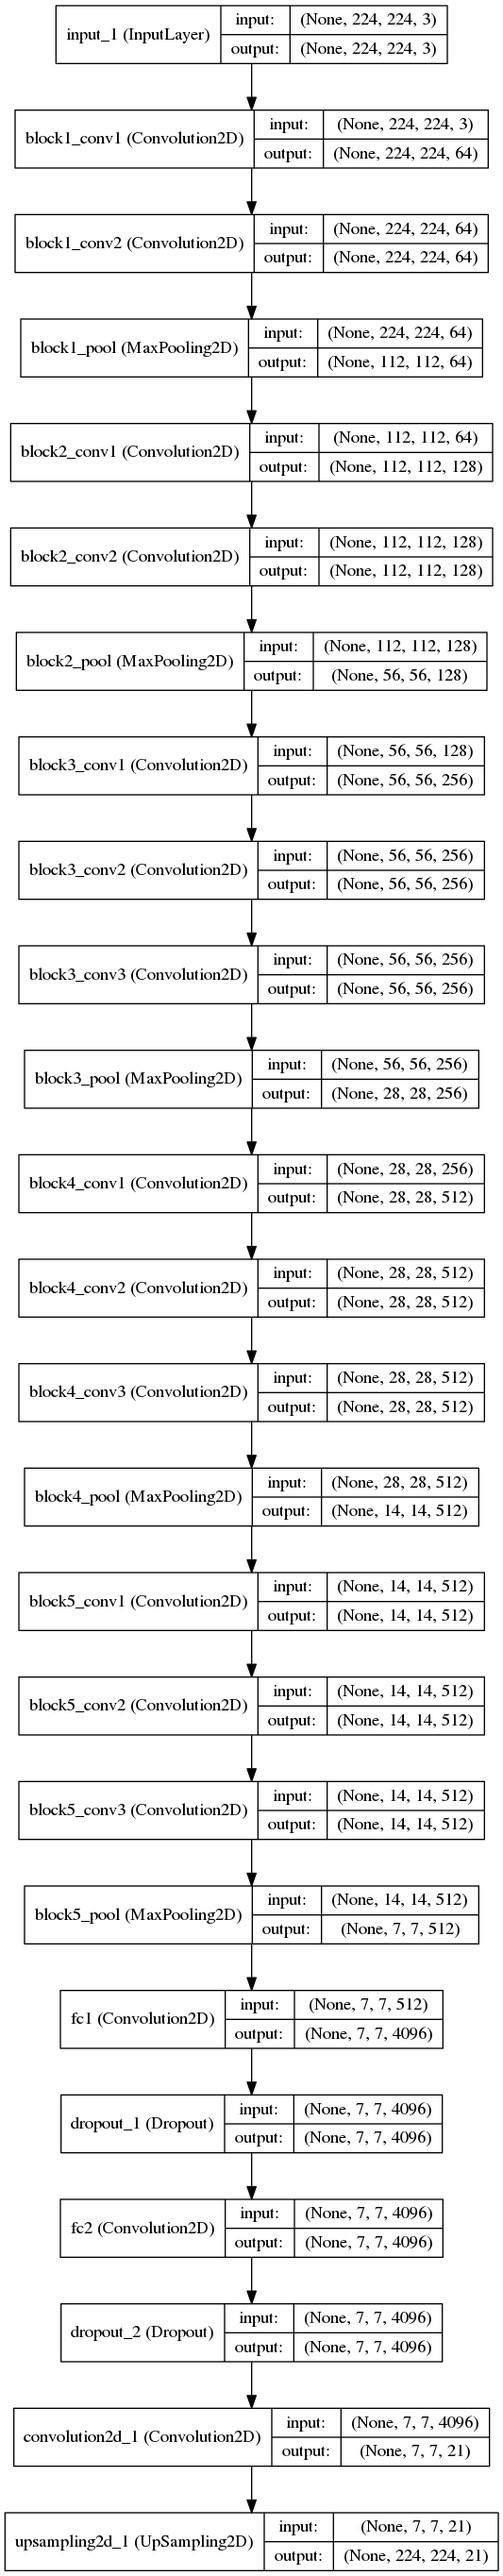
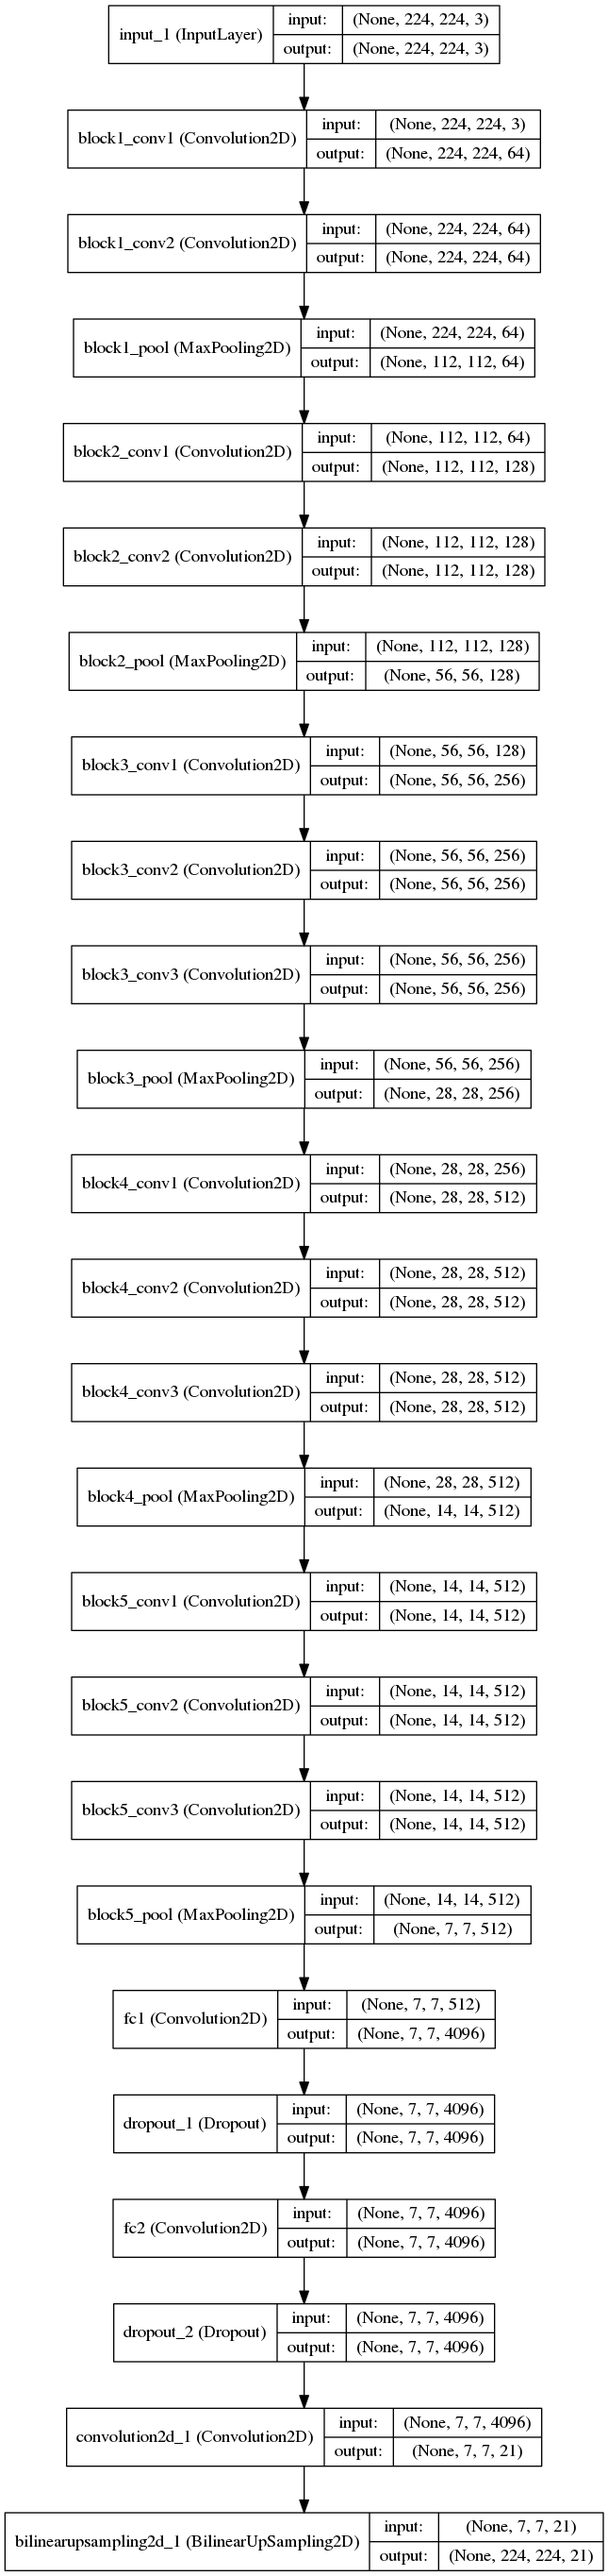
Defined new layer BilinearUpSampling2D and use it to upsample the output.

diff --git a/models.py b/models.py
@@ -6,11 +6,76 @@ import sys
 from keras.models import Model
 from keras.regularizers import l2
 from keras.layers import *
-from keras.models import model_from_json
-from keras.utils import np_utils
+from keras.engine import Layer
 from keras.applications.vgg16 import *
+from keras.models import *
+import keras.backend as K
+import tensorflow as tf
 
 from utils.get_weights_path import *
+
+def resize_images_bilinear(X, height_factor, width_factor, dim_ordering):
+    '''Resizes the images contained in a 4D tensor of shape
+    - [batch, channels, height, width] (for 'th' dim_ordering)
+    - [batch, height, width, channels] (for 'tf' dim_ordering)
+    by a factor of (height_factor, width_factor). Both factors should be
+    positive integers.
+    '''
+    if dim_ordering == 'th':
+        original_shape = K.int_shape(X)
+        new_shape = tf.shape(X)[2:]
+        new_shape *= tf.constant(np.array([height_factor, width_factor]).astype('int32'))
+        X = permute_dimensions(X, [0, 2, 3, 1])
+        X = tf.image.resize_bilinear(X, new_shape)
+        X = permute_dimensions(X, [0, 3, 1, 2])
+        X.set_shape((None, None, original_shape[2] * height_factor, original_shape[3] * width_factor))
+        return X
+    elif dim_ordering == 'tf':
+        original_shape = K.int_shape(X)
+        new_shape = tf.shape(X)[1:3]
+        new_shape *= tf.constant(np.array([height_factor, width_factor]).astype('int32'))
+        X = tf.image.resize_bilinear(X, new_shape)
+        X.set_shape((None, original_shape[1] * height_factor, original_shape[2] * width_factor, None))
+        return X
+    else:
+        raise Exception('Invalid dim_ordering: ' + dim_ordering)
+
+class BilinearUpSampling2D(Layer):
+    def __init__(self, size=(2, 2), dim_ordering='default', **kwargs):
+        if dim_ordering == 'default':
+            dim_ordering = K.image_dim_ordering()
+        self.size = tuple(size)
+        assert dim_ordering in {'tf', 'th'}, 'dim_ordering must be in {tf, th}'
+        self.dim_ordering = dim_ordering
+        self.input_spec = [InputSpec(ndim=4)]
+        super(BilinearUpSampling2D, self).__init__(**kwargs)
+
+    def get_output_shape_for(self, input_shape):
+        if self.dim_ordering == 'th':
+            width = self.size[0] * input_shape[2] if input_shape[2] is not None else None
+            height = self.size[1] * input_shape[3] if input_shape[3] is not None else None
+            return (input_shape[0],
+                    input_shape[1],
+                    width,
+                    height)
+        elif self.dim_ordering == 'tf':
+            width = self.size[0] * input_shape[1] if input_shape[1] is not None else None
+            height = self.size[1] * input_shape[2] if input_shape[2] is not None else None
+            return (input_shape[0],
+                    width,
+                    height,
+                    input_shape[3])
+        else:
+            raise Exception('Invalid dim_ordering: ' + self.dim_ordering)
+
+    def call(self, x, mask=None):
+        return resize_images_bilinear(x, self.size[0], self.size[1],
+                               self.dim_ordering)
+
+    def get_config(self):
+        config = {'size': self.size}
+        base_config = super(BilinearUpSampling2D, self).get_config()
+        return dict(list(base_config.items()) + list(config.items()))
 
 def FCN_Vgg16_32s(input_shape = None, weight_decay=0.):
     img_input = Input(shape=input_shape)
@@ -50,7 +115,7 @@ def FCN_Vgg16_32s(input_shape = None, weight_decay=0.):
     #classifying layer
     x = Convolution2D(21, 1, 1, init='normal', activation='linear', border_mode='valid', subsample=(1, 1), W_regularizer=l2(weight_decay))(x)
 
-    x = UpSampling2D(size=(32, 32))(x)
+    x = BilinearUpSampling2D(size=(32, 32))(x)
 
     model = Model(img_input, x)
 
@@ -166,7 +231,7 @@ def FCN_Resnet50_32s(input_shape = None, weight_decay=0.):
     #classifying layer
     x = Convolution2D(21, 1, 1, init='normal', activation='linear', border_mode='valid', subsample=(1, 1), W_regularizer=l2(weight_decay))(x)
 
-    x = UpSampling2D(size=(32, 32))(x)
+    x = BilinearUpSampling2D(size=(32, 32))(x)
 
     model = Model(img_input, x)
     weights_path = os.path.expanduser(os.path.join('~', '.keras/models/fcn_resnet50_weights_tf_dim_ordering_tf_kernels.h5'))

diff --git a/inference.py b/inference.py
@@ -11,10 +11,10 @@ from keras.models import load_model
 from models import *
 
 if __name__ == '__main__':
-    image = cv2.imread('/home/aurora/Learning/Data/VOC2012/JPEGImages/2007_000033.jpg')
-    label = Image.open('/home/aurora/Learning/Data/VOC2012/SegmentationClass/2007_000033.png')
-    print label
-    exit()
+    img_num = '2007_000042'
+    image = cv2.imread('/home/aurora/Learning/Data/VOC2012/JPEGImages/%s.jpg'%img_num)
+    label = Image.open('/home/aurora/Learning/Data/VOC2012/SegmentationClass/%s.png'%img_num)
+
     #label.show(title='ground truth')
     #label = img_to_array(label)
     image = cv2.resize(image, (224, 224),interpolation=cv2.INTER_AREA)
@@ -28,7 +28,7 @@ if __name__ == '__main__':
     f = open(model_path, 'r')
     model_json = f.read()
     f.close
-    model = model_from_json(model_json)
+    model = model_from_json(model_json, {'BilinearUpSampling2D': BilinearUpSampling2D})
     checkpoint_path = os.path.join(save_path, 'checkpoint_weights.hdf5')
     model.load_weights(checkpoint_path)
     model.summary()
@@ -36,8 +36,8 @@ if __name__ == '__main__':
     result = model.predict(image,batch_size=1)
     result = np.argmax(np.squeeze(result), axis=-1).astype(np.uint8)
 
-    temp = label.copy()
-    temp.putdata(result)
-    #temp.show(title='result')
+    temp = Image.fromarray(result, mode='P')
+    temp.palette = label.palette
+    temp.show(title='result')
     print result
     print np.max(result)

diff --git a/train.py b/train.py
@@ -47,7 +47,7 @@ def train(batch_size, nb_epoch, lr_dict, weight_decay, nb_classes, model_name, t
         f = open(model_path, 'r')
         model_json = f.read()
         f.close
-        model = model_from_json(model_json)
+        model = model_from_json(model_json, {'BilinearUpSampling2D': BilinearUpSampling2D})
         sgd = SGD(lr=0.001, momentum=0.9)
         model.compile(loss = softmax_sparse_crossentropy_ignoring_last_label, optimizer=sgd, metrics=['accuracy'])
         model.load_weights(checkpoint_path)
@@ -104,8 +104,8 @@ def train(batch_size, nb_epoch, lr_dict, weight_decay, nb_classes, model_name, t
     model.save(save_path+'/model.hdf5')
 
 if __name__ == '__main__':
-    model_name = 'FCN_Resnet50_32s'
-    batch_size = 16
+    model_name = 'FCN_Vgg16_32s'
+    batch_size = 1
     nb_epoch = 200
     lr_dict = lr_dict = {0: 0.00001, 80: 0.000001, 120: 0.0000001}
     weight_decay = 0.0002
